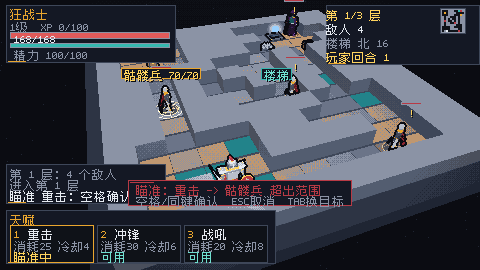
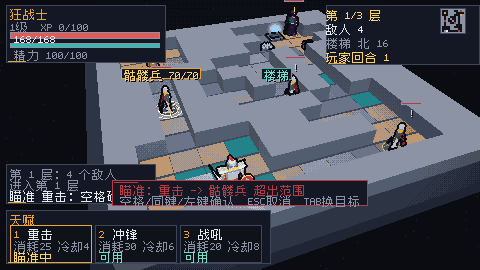
feat: mouse aim and sub-30% HUD

Changed region(s): [[0.1875, 0.5926, 0.7812, 0.9778], [0.3125, 0.0, 0.375, 0.237]]

diff --git a/docs/QA_TOME2.md b/docs/QA_TOME2.md
@@ -160,6 +160,6 @@ zig build test-qa --summary all
 | 超时 | 0 | 0 | 0 | 0 |
 
 - 固定 seed 12345 三职业均通关：狂战士第 100 回合剩 66 HP、元素法师第 75 回合剩 61 HP、时空法师第 84 回合剩 69 HP。
-- zig build test：129/129；zig build test-qa：76/76；0 不变量违规；stairs_wins=0，193 胜全部来自 Boss 击杀。
+- zig build test：132/132；zig build test-qa：76/76；0 不变量违规；stairs_wins=0，193 胜全部来自 Boss 击杀。
 - 速度带已启用：精英幽魂 150（每 2 回合多一次行动），石魔像 70（每 2 回合跳过行动）。
 - 旧第 6.1/6.2 节保留为“AOE 不可躲”时期的历史基线；本节取代其通关率结论。README 已同步。
